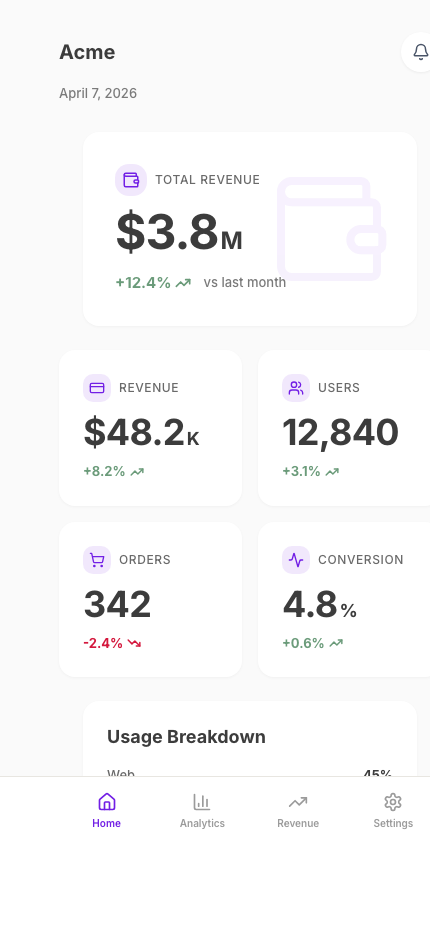
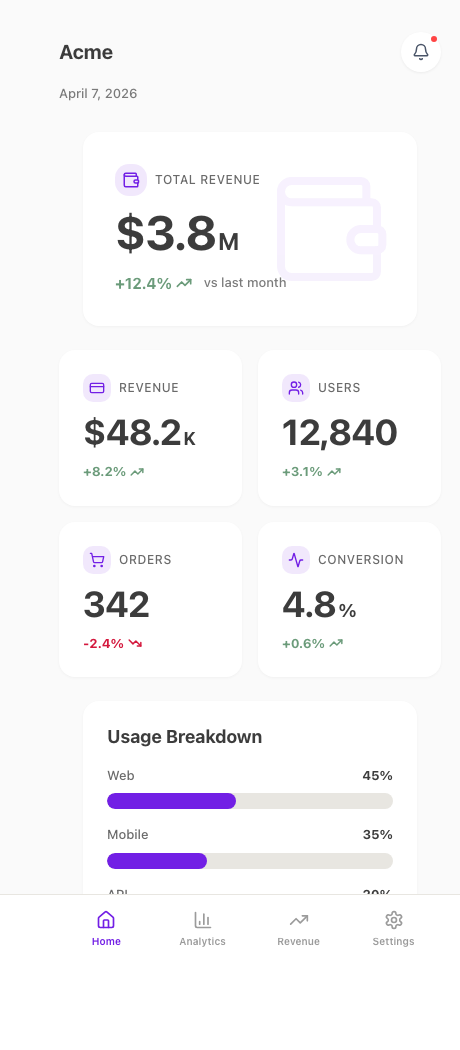
Fix screenshot cropping and add short promo copy
- Wider viewport (460px) to prevent card shadow clipping
- Add ultra-short 3-line Korean promo templates for Threads/Instagram

diff --git a/showcase/PROMO-KR.md b/showcase/PROMO-KR.md
@@ -2,20 +2,20 @@
 
 ---
 
-## 스레드/인스타 (짧은 버전)
+## 스레드/인스타 (3줄 버전)
 
-디자이너 없이 AI로 이런 UI 만들 수 있으면?
+AI로 코딩하면 UI가 구린 이유? 디자인 "규칙"이 없어서.
+2,200줄의 디자인 룰을 AI에 심으면 토스급 UI가 나옴.
+오픈소스로 풀었음 → github.com/bitjaru/styleseed
 
-Claude Code에 "대시보드 만들어줘" 하면 보통 구린 게 나옴.
-근데 디자인 룰 2,200줄을 먹이면? 토스급 UI가 나옴.
+---
 
-그게 StyleSeed.
-컬러 철학, 타이포 계층, 카드 구조, 금지 패턴까지
-디자이너가 하는 판단을 AI가 대신 함.
+## 스레드/인스타 (한 줄 훅 + 3줄)
 
-47개 컴포넌트 + 10개 AI 스킬 포함.
-MIT 오픈소스.
+디자이너 없이 토스급 UI 뽑는 법 찾음.
 
+AI에 컬러·타이포·레이아웃 규칙 2,200줄 먹이면 됨.
+47개 컴포넌트 + 10개 AI 스킬 포함. MIT 오픈소스.
 github.com/bitjaru/styleseed
 
 ---
